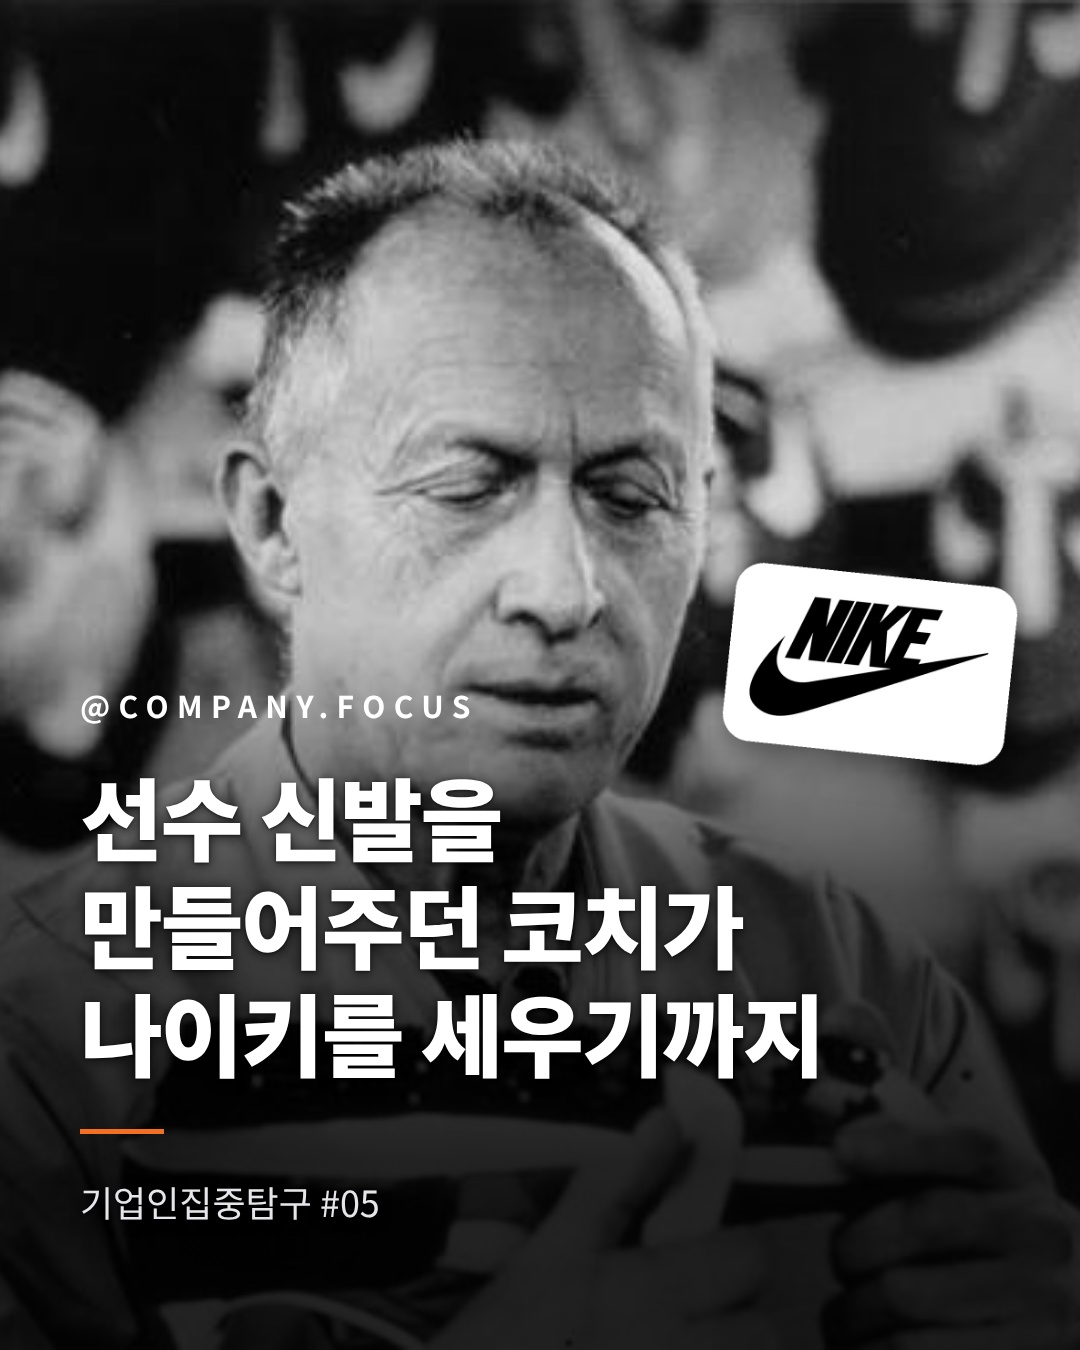
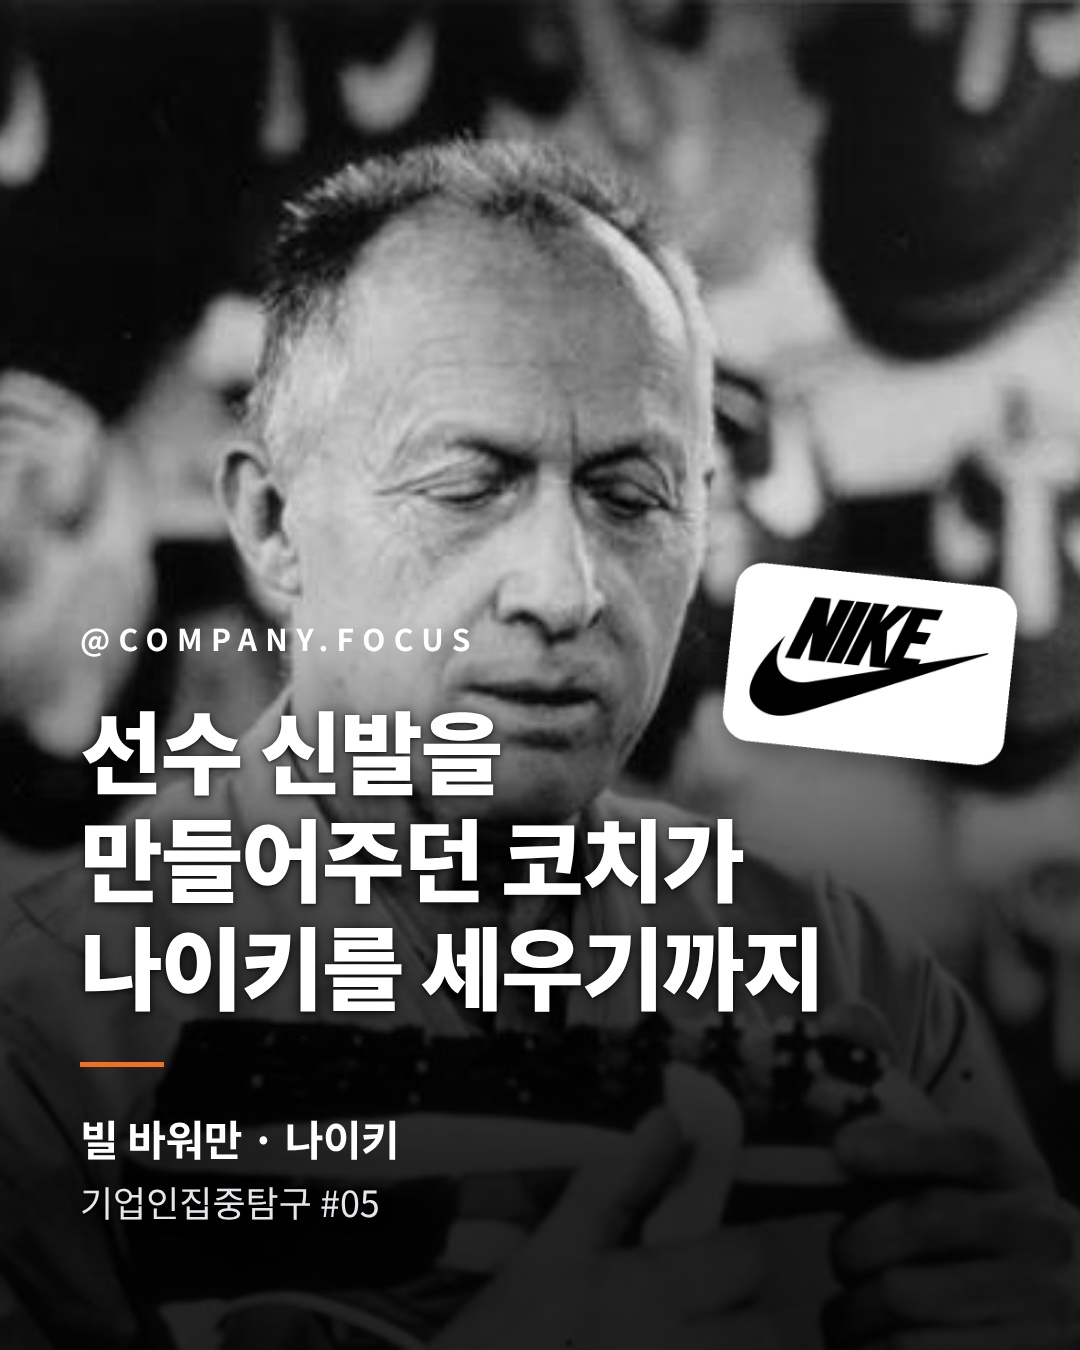
표지에 '인물 · 회사' 줄 추가(기업인집중탐구 #NN 위), 편마다 company_ko 필드, #05 재렌더
Claude-Session: https://claude.ai/code/session_0174UmVuwJmyLhAWFRzq7SfG

Changed region(s): [[0.0611, 0.4667, 0.7639, 0.8711]]

diff --git a/render.py b/render.py
@@ -36,6 +36,7 @@ h1{font-size:88px;line-height:1.2;font-weight:900;letter-spacing:-.025em;white-s
 .cover h1{font-size:90px}
 .dv{width:84px;height:5px;background:var(--a);margin:44px 0 40px}
 p{font-size:36px;line-height:1.55;color:#e6e6ea;font-weight:400}
+.who{font-size:42px;font-weight:700;color:#fff;margin-bottom:6px;letter-spacing:-.01em}
 .handle{font-size:30px;letter-spacing:.28em;font-weight:700;margin-bottom:34px;color:#fff}
 .stats{margin-top:8px}
 .st{margin-bottom:34px}
@@ -86,7 +87,7 @@ def slide_html(ep, s, i, n, base):
         head += f'<div class="when">{e(s["when"])}</div>'
     if t == "cover":
         body = (f'<div class="handle">{e(ep["handle"]).upper()}</div><h1>{e(s["title"])}</h1>'
-                f'<div class="dv"></div><p>{lines(s["body"])}</p>')
+                f'<div class="dv"></div><div class="who">{e(ep["person"])} · {e(ep.get("company_ko") or ep["company"])}</div><p>{lines(s["body"])}</p>')
         return f'<div class="s cover">{bg}<div class="{shade}"></div>{head}<div class="txt">{body}</div></div>'
     if t == "stats":
         st = "".join(f'<div class="st"><div class="c">{e(x["cap"])}</div><div class="n">{e(x["num"])}<span class="u">{e(x["unit"])}</span></div></div>' for x in s["stats"])
